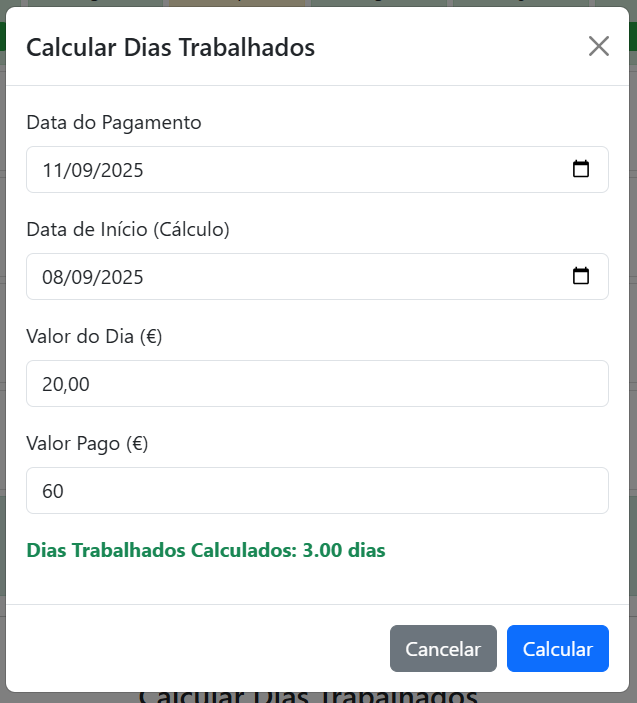
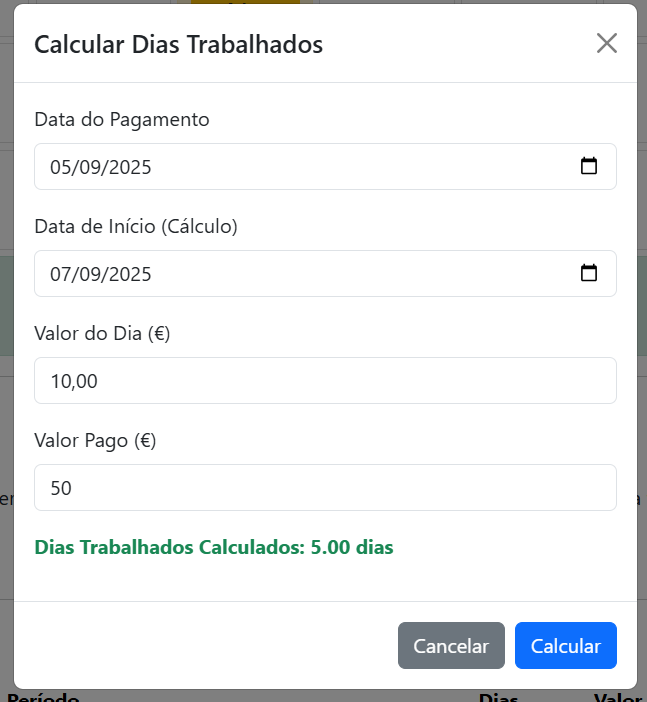
feat: Improve payment history display and calculation modal behavior and fix related issues.

diff --git a/static/js/app.js b/static/js/app.js
@@ -15,6 +15,10 @@ document.addEventListener('DOMContentLoaded', async function () {
     const calculateDaysBtn = document.getElementById('calculate-days-btn');
     const calculatedDaysResult = document.getElementById('calculated-days-result');
 
+    // --- Elementos do Histórico de Pagamentos ---
+    const paymentHistoryBody = document.getElementById('payment-history-body');
+    const noPaymentHistoryMessage = document.getElementById('no-payment-history-message');
+
     calculateDaysModalEl.addEventListener('show.bs.modal', async function () {
         // Preencher Valor do Dia (€) com o Valor Padrão do Dia
         dailyRateCalcInput.value = currentDefaultRate.toFixed(2);
@@ -352,10 +356,96 @@ const saveAllSettingsBtn = document.getElementById('save-all-settings-btn');
         monthTotalElement.style.gridColumn = 'span 8';
         monthTotalElement.textContent = `Total do Mês: €${monthlyTotal.toFixed(2)}`;
         calendarGrid.appendChild(monthTotalElement);
+
+        // NOVO: Renderizar o histórico de pagamentos para o mês atual
+        renderPaymentHistory(year, month + 1); // month + 1 porque JavaScript months são 0-indexed
     }
 
     function toggleTrabalhadoFields() {
         trabalhadoFields.style.display = statusSelect.value === 'trabalhado' ? 'block' : 'none';
+    }
+
+    async function renderPaymentHistory(year, month) {
+        paymentHistoryBody.innerHTML = ''; // Clear previous entries
+        noPaymentHistoryMessage.style.display = 'none'; // Hide message by default
+
+        const response = await fetch(`/api/monthly_payments_history?year=${year}&month=${month}`);
+        const payments = await response.json();
+
+        if (payments.length === 0) {
+            noPaymentHistoryMessage.style.display = 'block';
+            return;
+        }
+
+        payments.forEach(payment => {
+            const row = document.createElement('tr');
+
+            function formatDateToBR(isoDateString) {
+        if (!isoDateString) return '';
+        const date = new Date(isoDateString + 'T00:00:00'); // Add T00:00:00 to ensure UTC interpretation
+        const day = String(date.getDate()).padStart(2, '0');
+        const month = String(date.getMonth() + 1).padStart(2, '0'); // Months are 0-indexed
+        const year = date.getFullYear();
+        return `${day}/${month}/${year}`;
+    }
+
+            // Coluna Pagamento
+            const paymentDateCell = document.createElement('td');
+            if (payment.payment_date) {
+                paymentDateCell.textContent = formatDateToBR(payment.payment_date);
+            } else {
+                // Se não houver data de pagamento, use o último dia da semana (domingo)
+                const weekStartDate = new Date(payment.week_start_date);
+                const sundayOfWeek = new Date(weekStartDate);
+                sundayOfWeek.setDate(weekStartDate.getDate() + 6); // Adiciona 6 dias para chegar ao domingo
+                paymentDateCell.textContent = formatDateToBR(sundayOfWeek.toISOString().split('T')[0]);
+            }
+            row.appendChild(paymentDateCell);
+
+            // Coluna Período
+            const periodCell = document.createElement('td');
+            if (payment.calculated_start_date && payment.calculated_days) {
+                const calculatedEndDate = new Date(payment.calculated_start_date);
+                calculatedEndDate.setDate(calculatedEndDate.getDate() + payment.calculated_days - 1);
+                periodCell.textContent = `${formatDateToBR(payment.calculated_start_date)} a ${formatDateToBR(calculatedEndDate.toISOString().split('T')[0])}`;
+            } else {
+                periodCell.textContent = `${formatDateToBR(payment.week_start_date)} a ${formatDateToBR(payment.period_end)}`;
+            }
+            row.appendChild(periodCell);
+
+            // Coluna Dias
+            const daysCell = document.createElement('td');
+            daysCell.textContent = (payment.calculated_days !== null && payment.calculated_days !== undefined) ? payment.calculated_days.toFixed(0) : payment.total_worked_days.toFixed(0);
+            row.appendChild(daysCell);
+
+            // Coluna Valor
+            const valueCell = document.createElement('td');
+            valueCell.textContent = `€${(payment.calculated_value !== null && payment.calculated_value !== undefined) ? payment.calculated_value.toFixed(2) : payment.total_worked_value.toFixed(2)}`;
+            row.appendChild(valueCell);
+
+            // Coluna Ações (Botão de Excluir)
+            const actionsCell = document.createElement('td');
+            const deleteButton = document.createElement('button');
+            deleteButton.classList.add('btn', 'btn-danger', 'btn-sm');
+            deleteButton.innerHTML = '<i class="bi bi-trash"></i>';
+            deleteButton.addEventListener('click', async () => {
+                if (confirm('Tem certeza que deseja excluir este registro de pagamento?')) {
+                    const response = await fetch(`/api/weekly_payment/${payment.id}`, {
+                        method: 'DELETE',
+                    });
+                    if (response.ok) {
+                        showAlert('Registro de pagamento excluído com sucesso!');
+                        renderPaymentHistory(currentDate.getFullYear(), currentDate.getMonth() + 1); // Recarrega o histórico
+                    } else {
+                        showAlert('Erro ao excluir o registro de pagamento.');
+                    }
+                }
+            });
+            actionsCell.appendChild(deleteButton);
+            row.appendChild(actionsCell);
+
+            paymentHistoryBody.appendChild(row);
+        });
     }
 
     async function populateWeeklyDayOffModal(weekStartDate, logsMap) { // Adiciona weekStartDate e logsMap como parametros
@@ -590,7 +680,7 @@ const saveAllSettingsBtn = document.getElementById('save-all-settings-btn');
             const data = await response.json();
 
             if (response.ok) {
-                calculatedDaysResult.textContent = `Dias Trabalhados Calculados: ${data.calculated_days.toFixed(2)} dias`;
+                calculatedDaysResult.textContent = `Dias Trabalhados Calculados: ${Number.isInteger(data.calculated_days) ? data.calculated_days.toFixed(0) : data.calculated_days.toFixed(2)} dias`;
                 calculatedDaysResult.classList.remove('text-danger');
                 calculatedDaysResult.classList.add('text-success');
 
@@ -623,6 +713,37 @@ const saveAllSettingsBtn = document.getElementById('save-all-settings-btn');
                         daysFilled++;
                     }
                 }
+                // NOVO: Criar/Atualizar WeeklyPayment após o preenchimento dos dias
+                const paymentDateObj = new Date(paymentDate); // Cria um objeto Date a partir da string YYYY-MM-DD
+                const weekStartPaymentDate = new Date(paymentDateObj);
+                const dayOfWeek = weekStartPaymentDate.getDay(); // 0 = Domingo, 1 = Segunda, ..., 6 = Sábado
+
+                // Calcula quantos dias subtrair para chegar à segunda-feira
+                // Se for domingo (0), subtrai 6 dias. Caso contrário, subtrai (dia da semana - 1)
+                const daysToSubtract = dayOfWeek === 0 ? 6 : dayOfWeek - 1;
+
+                weekStartPaymentDate.setDate(paymentDateObj.getDate() - daysToSubtract);
+                const isoWeekStartPaymentDate = weekStartPaymentDate.toISOString().split('T')[0];
+
+                await fetch('/api/weekly_payment', {
+                    method: 'POST',
+                    headers: { 'Content-Type': 'application/json' },
+                    body: JSON.stringify({
+                        week_start_date: isoWeekStartPaymentDate,
+                        payment_date: paymentDate,
+                        calculated_start_date: startDate, // NOVO
+                        calculated_days: data.calculated_days, // NOVO
+                        calculated_value: paidAmount // NOVO
+                    }),
+                });
+
+                // Reset input fields
+                paymentDateCalcInput.value = '';
+                startDateCalcInput.value = '';
+                dailyRateCalcInput.value = '';
+                paidAmountCalcInput.value = '';
+                calculatedDaysResult.textContent = ''; // Clear the calculated message
+
                 calculateDaysModal.hide(); // Fecha o modal após o preenchimento
                 renderCalendar(currentDate); // Re-renderiza o calendário para mostrar os novos dias
 

diff --git a/static/index.html b/static/index.html
@@ -34,6 +34,26 @@
                         <i class="bi bi-calculator me-2"></i>Calcular Dias
                     </button>
                 </div>
+                <hr>
+                <h4 class="text-center mt-4">Histórico de Pagamentos do Mês</h4>
+                <div id="payment-history-container" class="mb-4">
+                    <!-- Payment history will be populated here by JS -->
+                    <table class="table table-striped table-hover">
+                        <thead>
+                            <tr>
+                                <th>Pagamento</th>
+                                <th>Período</th>
+                                <th>Dias</th>
+                                <th>Valor</th>
+                                <th>Ações</th>
+                            </tr>
+                        </thead>
+                        <tbody id="payment-history-body">
+                            <!-- Payment history rows will be inserted here -->
+                        </tbody>
+                    </table>
+                    <p id="no-payment-history-message" class="text-center text-muted" style="display: none;">Nenhum pagamento registrado para este mês.</p>
+                </div>
             </div>
         </div>
     </div>

diff --git a/src/main.py b/src/main.py
@@ -9,7 +9,7 @@ from pydantic import BaseModel
 import json
 from sqlalchemy import select, and_, func
 
-from .database import create_db_and_tables, SessionLocal, WorkLog, ShiftType, WorkStatus, Settings
+from .database import create_db_and_tables, SessionLocal, WorkLog, ShiftType, WorkStatus, Settings, WeeklyPayment
 
 # Pydantic Models
 class WorkLogBase(BaseModel):
@@ -289,12 +289,18 @@ def delete_logs_by_weekday(weekday: int, week_start_date: date, db: Session = De
 class WeeklyPaymentBase(BaseModel):
     week_start_date: date
     payment_date: Optional[date] = None
+    calculated_start_date: Optional[date] = None # NOVO
+    calculated_days: Optional[float] = None # NOVO
+    calculated_value: Optional[float] = None # NOVO
 
 class WeeklyPaymentCreate(WeeklyPaymentBase):
     pass
 
 class WeeklyPaymentSchema(WeeklyPaymentBase):
     id: Optional[int] = None # Optional for new entries
+    period_end: Optional[date] = None # NOVO: Fim do período da semana (ainda calculado dinamicamente para compatibilidade)
+    total_worked_days: Optional[float] = None # NOVO: Total de dias trabalhados na semana (ainda calculado dinamicamente para compatibilidade)
+    total_worked_value: Optional[float] = None # NOVO: Valor total trabalhado na semana (ainda calculado dinamicamente para compatibilidade)
     class Config:
         orm_mode = True
 
@@ -325,16 +331,77 @@ def get_weekly_payment(week_start_date: date, db: Session = Depends(get_db)):
 
 @app.post("/api/weekly_payment", response_model=WeeklyPaymentSchema, tags=["Weekly Payments"])
 def create_or_update_weekly_payment(payment: WeeklyPaymentCreate, db: Session = Depends(get_db)):
-    """Creates or updates the payment date for a specific week."""
-    statement = select(WeeklyPayment).where(WeeklyPayment.week_start_date == payment.week_start_date)
-    db_payment = db.execute(statement).scalars().first()
-
-    if db_payment:
-        db_payment.payment_date = payment.payment_date
-    else:
-        db_payment = WeeklyPayment(**payment.dict())
-        db.add(db_payment)
+    """Creates a new payment entry for a specific week."""
+    db_payment = WeeklyPayment(**payment.dict())
+    db.add(db_payment)
     
     db.commit()
     db.refresh(db_payment)
     return db_payment
+
+@app.delete("/api/weekly_payment/{payment_id}", tags=["Weekly Payments"])
+def delete_weekly_payment(payment_id: int, db: Session = Depends(get_db)):
+    """Deletes a weekly payment entry by its ID."""
+    statement = select(WeeklyPayment).where(WeeklyPayment.id == payment_id)
+    db_payment = db.execute(statement).scalars().first()
+
+    if not db_payment:
+        raise HTTPException(status_code=404, detail="Registro de pagamento semanal não encontrado.")
+
+    db.delete(db_payment)
+    db.commit()
+    return {"message": f"Registro de pagamento {payment_id} excluído com sucesso."}
+
+    
+
+@app.get("/api/monthly_payments_history", response_model=List[WeeklyPaymentSchema], tags=["Weekly Payments"])
+def get_monthly_payments_history(year: int, month: int, db: Session = Depends(get_db)):
+    print(f"Entering get_monthly_payments_history for {year}-{month}") # Debugging line
+    """Gets the payment details for all weeks within a specific month and year."""
+    try:
+        payments_from_db = db.execute(select(WeeklyPayment)).scalars().all()
+
+        result_payments = []
+        for payment in payments_from_db:
+            # Determine the relevant date for filtering
+            filter_date = payment.payment_date if payment.payment_date else payment.week_start_date
+
+            # Filter in Python based on the month and year of the relevant date
+            if filter_date.year == year and filter_date.month == month:
+                # Use stored calculated values if available, otherwise fall back to week summary
+                if payment.calculated_start_date and payment.calculated_days is not None and payment.calculated_value is not None:
+                    period_end = payment.calculated_start_date + timedelta(days=int(payment.calculated_days) - 1)
+                    total_worked_days = payment.calculated_days
+                    total_worked_value = payment.calculated_value
+                else:
+                    # Fallback to existing weekly summary calculation
+                    week_start = payment.week_start_date
+                    week_end = week_start + timedelta(days=6) # Sunday of the week
+
+                    worked_days_statement = select(func.count(WorkLog.id), func.sum(WorkLog.daily_rate)).where(
+                        and_(
+                            WorkLog.date >= week_start,
+                            WorkLog.date <= week_end,
+                            WorkLog.status == WorkStatus.TRABALHADO
+                        )
+                    )
+                    worked_days_data = db.execute(worked_days_statement).first()
+                    
+                    period_end = week_end
+                    total_worked_days = worked_days_data[0] if worked_days_data and worked_days_data[0] is not None else 0
+                    total_worked_value = worked_days_data[1] if worked_days_data and worked_days_data[1] is not None else 0.0
+
+                result_payments.append(WeeklyPaymentSchema(
+                    id=payment.id,
+                    week_start_date=payment.week_start_date,
+                    payment_date=payment.payment_date,
+                    calculated_start_date=payment.calculated_start_date, # NOVO
+                    calculated_days=payment.calculated_days, # NOVO
+                    calculated_value=payment.calculated_value, # NOVO
+                    period_end=period_end,
+                    total_worked_days=total_worked_days,
+                    total_worked_value=total_worked_value
+                ))
+        return result_payments
+    except Exception as e:
+        raise HTTPException(status_code=500, detail=f"Erro ao buscar histórico de pagamentos: {e}")

diff --git a/src/database.py b/src/database.py
@@ -42,8 +42,11 @@ class WeeklyPayment(Base):
     __tablename__ = "weekly_payments"
 
     id = Column(Integer, primary_key=True, index=True)
-    week_start_date = Column(Date, unique=True, nullable=False, index=True)
+    week_start_date = Column(Date, nullable=False, index=True)
     payment_date = Column(Date, nullable=True) # Nullable if payment not yet made
+    calculated_start_date = Column(Date, nullable=True) # NOVO: Data de início do cálculo
+    calculated_days = Column(Float, nullable=True) # NOVO: Dias calculados
+    calculated_value = Column(Float, nullable=True) # NOVO: Valor calculado
 
 def create_db_and_tables():
     Base.metadata.create_all(bind=engine)
